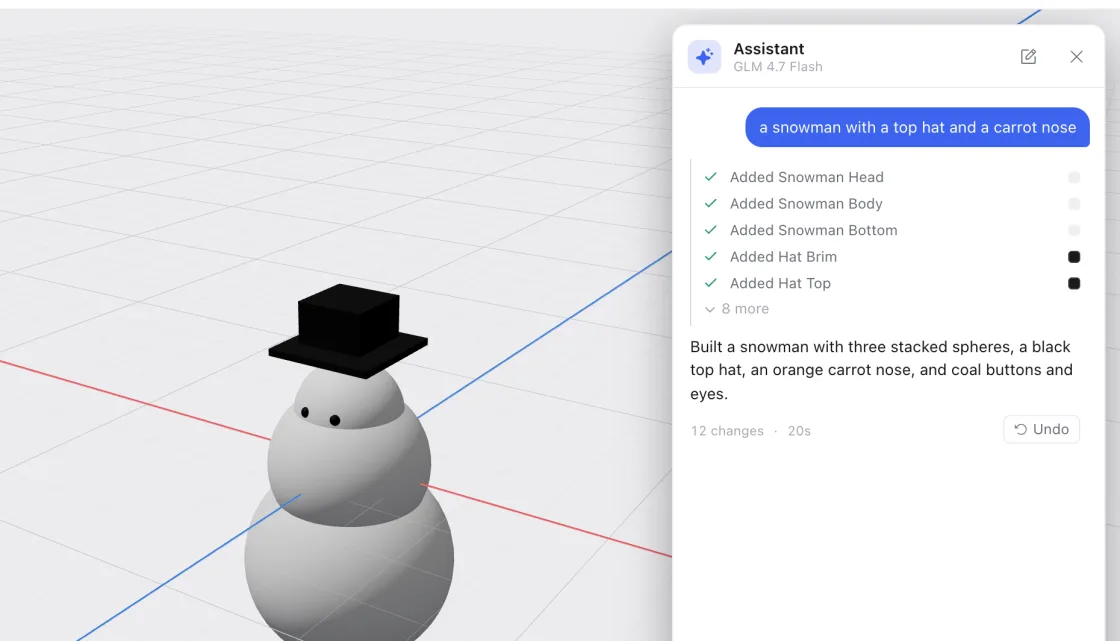
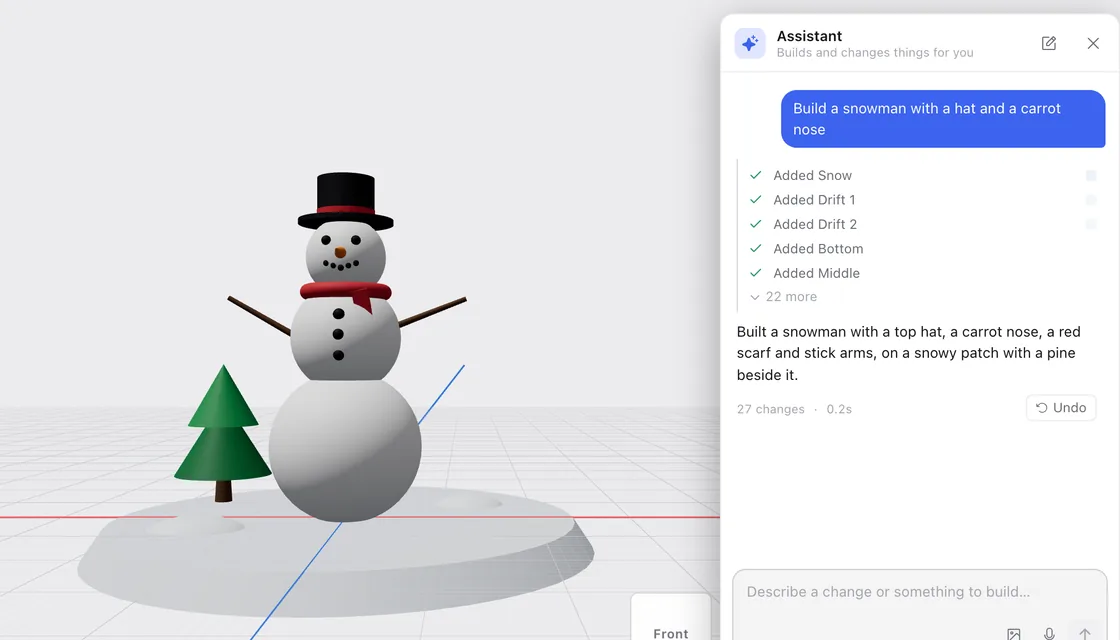
feat: new welcome pictures from the current app, and a script to retake them

diff --git a/frontend/e2e/tools/onboarding-shots.spec.ts b/frontend/e2e/tools/onboarding-shots.spec.ts
@@ -1,0 +1,166 @@
+import { expect, test, type Browser, type Page } from '@playwright/test'
+import fs from 'node:fs'
+import os from 'node:os'
+import path from 'node:path'
+
+// Retakes the pictures in the welcome dialog (public/onboarding), in light and
+// dark, from the app as it is now. Not part of the test run:
+//   SHOTS=1 CI=true npx playwright test e2e/tools/onboarding-shots.spec.ts --project=desktop
+// then convert the PNGs it saves (in the system temp folder, or SHOTS_OUT) to
+// 1120x640 WebP in public/onboarding.
+test.skip(!process.env.SHOTS, 'Only when retaking the welcome pictures')
+test.setTimeout(240_000)
+// A fake camera for hand control.
+test.use({ launchOptions: { args: ['--use-fake-device-for-media-stream', '--use-fake-ui-for-media-stream'] } })
+
+const OUT = process.env.SHOTS_OUT ?? path.join(os.tmpdir(), 'shapeshift-onboarding')
+const VIEW = { width: 1200, height: 700 }
+// 7:4, like the picture area in the dialog.
+const CLIP = { width: 1008, height: 576 }
+fs.mkdirSync(OUT, { recursive: true })
+
+async function person(browser: Browser, theme: 'light' | 'dark') {
+  const context = await browser.newContext({ viewport: VIEW, deviceScaleFactor: 2, colorScheme: theme })
+  const page = await context.newPage()
+  await page.addInitScript(() => {
+    localStorage.setItem('shapeshift-onboarded', '1')
+    localStorage.setItem('shapeshift-first-steps', JSON.stringify({ active: false, done: [] }))
+  })
+  return page
+}
+
+async function open(page: Page, path: string) {
+  await page.goto(path)
+  await expect(page.getByTitle('Add box')).toBeVisible()
+  await page.waitForTimeout(1500)
+}
+
+// The snowman template, as the "add" steps an assistant would take to build it.
+type Shape = { name: string; geometry: { type: string }; position: number[]; rotation: number[]; scale: number[]; material: { color: string }; group?: string }
+async function snowmanSteps(browser: Browser) {
+  const page = await person(browser, 'light')
+  await open(page, '/edit?template=snowman')
+  const doc = await page.evaluate(() => JSON.parse(localStorage.getItem('shapeshift-scene')!) as { objects: Shape[] })
+  await page.context().close()
+  return doc.objects.map((o) => ({ type: 'add', primitive: o.geometry.type, name: o.name, geometry: o.geometry, position: o.position, rotation: o.rotation, scale: o.scale, color: o.material.color }))
+}
+
+// The assistant, scripted: it thinks, builds the snowman step by step, then sums up.
+async function scriptAssistant(page: Page, snowman: object[]) {
+  let step = 0
+  await page.route('**/api/agent', async (route) => {
+    if (route.request().method() !== 'POST') return route.fulfill({ json: { provider: 'anthropic', model: 'claude-sonnet-5-5' } })
+    const lines: object[] = []
+    if (step === 0) {
+      lines.push({ type: 'thinking', text: 'Three stacked spheres, a top hat and a carrot nose, on a patch of snow.' })
+      const calls = snowman.map((c, i) => {
+        const { type, ...args } = c as { type: string }
+        return { id: `call_${i}`, name: type, arguments: JSON.stringify(args) }
+      })
+      lines.push({ type: 'message', message: { role: 'assistant', content: null, tool_calls: calls }, stop: 'tool_use', model: 'claude-sonnet-5-5' })
+    } else {
+      const summary = 'Built a snowman with a top hat, a carrot nose, a red scarf and stick arms, on a snowy patch with a pine beside it.'
+      lines.push({ type: 'text', text: summary })
+      lines.push({
+        type: 'message',
+        message: { role: 'assistant', content: 'Built a snowman with a top hat, a carrot nose, a red scarf and stick arms, on a snowy patch with a pine beside it.' },
+        stop: 'end',
+        model: 'claude-sonnet-5-5',
+      })
+    }
+    step++
+    await route.fulfill({ contentType: 'application/x-ndjson', body: lines.map((l) => JSON.stringify(l)).join('\n') + '\n' })
+  })
+}
+
+// Hand control on a fake camera, with recorded hands replayed into it.
+const HANDS = JSON.parse(fs.readFileSync('src/hands/fixtures/two-open-hands.json', 'utf8')) as { time: number; hands: unknown[] }[]
+// The recording is a moment long; hold its last pose for a few seconds.
+// Raised a little in the frame too, so the palm menu fits in the picture.
+type Frame = { handedness: string; landmarks: number[] }
+const raise = (hands: unknown[]) => (hands as Frame[]).map((h) => ({ ...h, landmarks: h.landmarks.map((v, i) => (i % 3 === 1 ? v - 0.22 : v)) }))
+const held = [...HANDS, ...Array.from({ length: 400 }, (_, i) => ({ time: HANDS.at(-1)!.time + (i + 1) * 33, hands: HANDS.at(-1)!.hands }))].map((f) => ({ ...f, hands: raise(f.hands) }))
+
+for (const theme of ['light', 'dark'] as const) {
+  test(`hands ${theme}`, async ({ browser }) => {
+    const context = await browser.newContext({ viewport: VIEW, deviceScaleFactor: 2, colorScheme: theme, permissions: ['camera'] })
+    const page = await context.newPage()
+    await page.addInitScript(() => {
+      localStorage.setItem('shapeshift-onboarded', '1')
+      localStorage.setItem('shapeshift-first-steps', JSON.stringify({ active: false, done: [] }))
+    })
+    await open(page, '/edit?record&template=snowman')
+    await page.getByTitle('Turn on hand control').click()
+    await expect(page.getByTitle('Replay a recording')).toBeVisible({ timeout: 150_000 })
+    const chooser = page.waitForEvent('filechooser')
+    await page.getByTitle('Replay a recording').click()
+    await (await chooser).setFiles({ name: 'hands.json', mimeType: 'application/json', buffer: Buffer.from(JSON.stringify(held)) })
+    // The fake camera's test pattern isn't worth showing.
+    await page.addStyleTag({ content: 'div:has(> div > canvas[width="424"]) { display: none !important; }' })
+    await page.waitForTimeout(2500)
+    await page.screenshot({ path: `${OUT}/hands-${theme}.png`, clip: { x: VIEW.width - CLIP.width, y: 48, ...CLIP } })
+    await context.close()
+  })
+
+
+  test(`assistant ${theme}`, async ({ browser }) => {
+    const page = await person(browser, theme)
+    await scriptAssistant(page, await snowmanSteps(browser))
+    await open(page, '/edit?new')
+    await page.waitForTimeout(500)
+    await page.getByTitle('Assistant').click()
+    await page.getByLabel('Message the assistant').fill('Build a snowman with a hat and a carrot nose')
+    await page.getByLabel('Message the assistant').press('Enter')
+    await expect(page.getByText('Built a snowman with a top hat')).toBeVisible({ timeout: 60_000 })
+    // Nothing selected, and the whole snowman in view.
+    await page.locator('canvas').first().click({ position: { x: 5, y: 5 } })
+    await page.keyboard.press('Escape')
+    await page.getByTitle('Fit everything in view (F)').click()
+    await page.waitForTimeout(2500)
+    await page.screenshot({ path: `${OUT}/assistant-${theme}.png`, clip: { x: VIEW.width - CLIP.width - 12, y: 48, ...CLIP } })
+  })
+
+  test(`shapes ${theme}`, async ({ browser }) => {
+    const page = await person(browser, theme)
+    await open(page, '/edit?template=house')
+    await page.getByTitle('Inspector').click()
+    // Just the tree's leaves, picked from the list.
+    await page.locator('select').first().selectOption({ label: 'Leaves' })
+    await page.waitForTimeout(1500)
+    await page.screenshot({ path: `${OUT}/shapes-${theme}.png`, clip: { x: 0, y: 48, ...CLIP } })
+  })
+
+  test(`together ${theme}`, async ({ browser }) => {
+    const host = await person(browser, theme)
+    await open(host, '/edit?template=cabin')
+    await host.getByTitle('Share a live link to this scene').click()
+    await expect(host).toHaveURL(/room=/)
+    const guests = [await person(browser, theme), await person(browser, theme)]
+    for (const guest of guests) {
+      await guest.goto(host.url())
+      await expect(guest.getByTitle('Add box')).toBeVisible()
+    }
+    // A little closer than the fit, so the cabin fills the picture.
+    const view = (await host.locator('canvas').first().boundingBox())!
+    await host.mouse.move(view.x + view.width / 2, view.y + view.height * 0.6)
+    for (let i = 0; i < 6; i++) {
+      await host.mouse.wheel(0, -120)
+      await host.waitForTimeout(150)
+    }
+    await host.waitForTimeout(2000)
+    // Each guest points somewhere in the scene, so their cursors show.
+    const spots = [
+      [0.42, 0.45],
+      [0.66, 0.6],
+    ]
+    for (const [i, guest] of guests.entries()) {
+      const box = (await guest.locator('canvas').first().boundingBox())!
+      await guest.mouse.move(box.x + box.width * spots[i][0], box.y + box.height * spots[i][1], { steps: 8 })
+    }
+    await host.keyboard.press('Escape')
+    await host.evaluate(() => (document.activeElement as HTMLElement | null)?.blur())
+    await host.mouse.move(5, 300)
+    await host.waitForTimeout(2500)
+    await host.screenshot({ path: `${OUT}/together-${theme}.png`, clip: { x: VIEW.width - CLIP.width, y: 0, ...CLIP } })
+  })
+}

diff --git a/frontend/src/components/Onboarding.tsx b/frontend/src/components/Onboarding.tsx
@@ -71,7 +71,7 @@ const STEPS = [
     {
         image: "hands",
         title: "Hand control",
-        text: "Click the hand in the top bar to use your webcam. Pinch to grab an object. Your other hand turns the view.",
+        text: "Click Hands in the top bar to use your webcam. Pinch a shape to grab it, pinch empty space to turn the view, and hold up an open palm for a menu.",
     },
     {
         image: "together",
